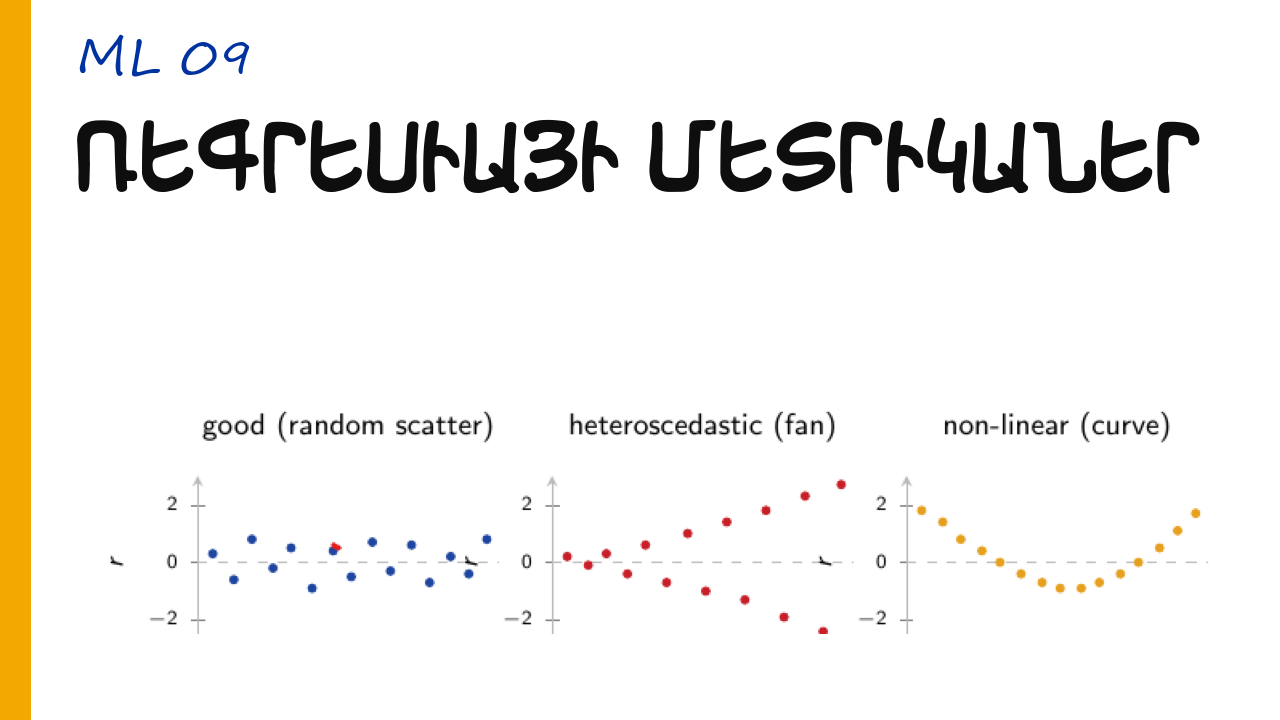
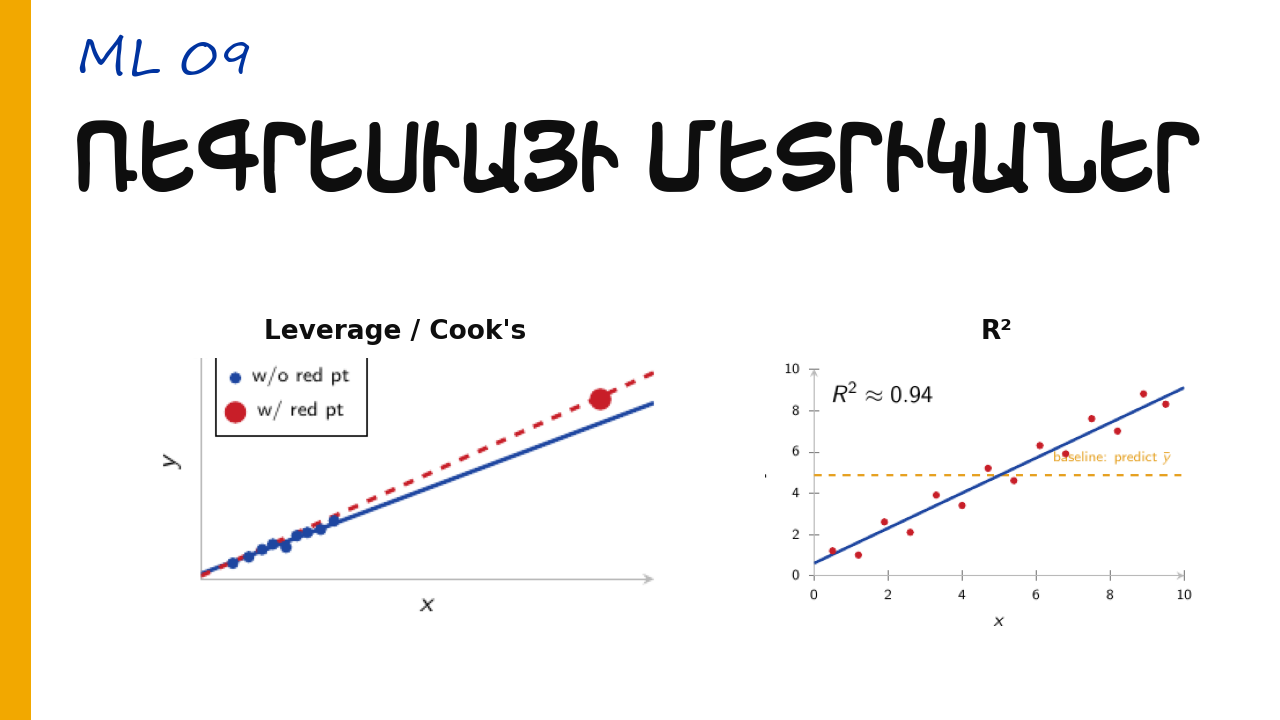
ML08 English title in Bubble Sans; ML09 = leverage + R2 (clean PDF)
- title_latin now uses Bubble Sans (fonter.am foundry, matches Adamathuz's
  bold/rounded look) instead of DejaVu Sans
- ML09: switch to leverage/Cook's + R2 (user pick), cropped from the CLEAN
  07_regression_metrics.pdf, not the annotated _notes.pdf (drops the red ink)
- docs: README notes the clean-vs-notes PDF gotcha + Bubble Sans

diff --git a/scripts/make_thumbnails_final.py b/scripts/make_thumbnails_final.py
@@ -80,6 +80,17 @@ font_manager.fontManager.addfont(str(ARM_FONT_PATH))
 ARM_PROPS = font_manager.FontProperties(fname=str(ARM_FONT_PATH))
 log.info(f"Loaded Armenian font: {ARM_PROPS.get_name()}")
 
+# Latin title font for English titles ("title_latin" lessons) — Bubble Sans,
+# same fonter.am foundry / bold-rounded look as Adamathuz. Falls back to a bold
+# sans if missing.
+LATIN_FONT_PATH = Path("fonts/bubble-sans/Bubble Sans 1.01.otf")
+if LATIN_FONT_PATH.exists():
+    font_manager.fontManager.addfont(str(LATIN_FONT_PATH))
+    LATIN_PROPS = font_manager.FontProperties(fname=str(LATIN_FONT_PATH))
+    log.info(f"Loaded Latin title font: {LATIN_PROPS.get_name()}")
+else:
+    LATIN_PROPS = font_manager.FontProperties(family="DejaVu Sans", weight="bold")
+
 
 def _strip(ax):
     ax.set_xticks([])
@@ -783,10 +794,11 @@ def draw_ml08_hp_tuning(fig, bbox):
 
 
 def draw_ml09_metrics(fig, bbox):
-    """ML 09: the residuals-vs-fitted diagnostics (good / heteroscedastic /
-    non-linear, blue/red/orange) as a wide 3-panel hero, cropped from slide 27
-    of 07_regression_metrics_notes.pdf."""
-    _draw_image_row(fig, bbox, ["ml09_residuals.png"], max_h=0.40)
+    """ML 09: leverage / Cook's-distance (an influential point pulling the fit)
+    + R^2 (variance explained vs the mean baseline), cropped from slides 29 and
+    11 of 07_regression_metrics_notes.pdf."""
+    _draw_image_row(fig, bbox, ["ml09_leverage.png", "ml09_r2.png"],
+                    captions=["Leverage / Cook's", "R²"])
 
 
 # ---------- lesson configs ----------
@@ -901,7 +913,7 @@ def render_thumbnail(lesson: dict) -> None:
     title = lesson["title"]
     tsize = lesson["title_size"]
     if lesson.get("title_latin"):
-        fontkw = {"fontfamily": "DejaVu Sans", "fontweight": "bold"}
+        fontkw = {"fontproperties": LATIN_PROPS}
     else:
         fontkw = {"fontproperties": ARM_PROPS, "fontweight": "bold"}
     if "\n" not in title:

diff --git a/thumbnails/README.md b/thumbnails/README.md
@@ -55,7 +55,8 @@ When a chart has 3+ categorical colors, use this flag trio (project rule).
   it has **no Latin glyphs**. So Armenian titles and the badge must be pure
   Armenian; Latin (`sklearn`, `EDA`, `log`) goes in the panels, never an Adamathuz
   title. For an **English title**, set `"title_latin": True` on the lesson — it
-  renders in **DejaVu Sans Bold** instead (e.g. ML08 "Hyperparameter Tuning").
+  renders in **Bubble Sans** (`fonts/bubble-sans/`, same fonter.am foundry as
+  Adamathuz — bold/rounded/uppercase) instead (e.g. ML08 "Hyperparameter Tuning").
 - **Segoe Script** (Windows system font) — the `ML NN` tag. Latin/handwritten.
 - **Sylfaen** (Windows system font) — mixed-case Armenian inside panels
   (panel titles, pipeline box labels). Use this whenever you need lowercase
@@ -99,7 +100,7 @@ When a chart has 3+ categorical colors, use this flag trio (project rule).
 | `ML06.png` | ML 06 | no | degree-6 poly overfit + k-fold CV grid (embedded slides) |
 | `ML07.png` | ML 07 | no | L1/L2 geometry + λ U-curve (embedded slides) |
 | `ML08.png` | ML 08 | no | Grid/Random/Optuna search patterns (embedded slide hero, English title) |
-| `ML09.png` | ML 09 | no | residual diagnostics: random/fan/curve (embedded slide hero) |
+| `ML09.png` | ML 09 | no | leverage/Cook's + R² (embedded slides, **clean** PDF not `_notes`) |
 
 ML06–09 embed real course-slide figures (cropped into `thumbnails/assets/`)
 rather than redrawing — pulled from the lecture decks in
@@ -107,7 +108,10 @@ rather than redrawing — pulled from the lecture decks in
 `fig/`, or `pdftoppm`-rendered + cropped slides for inline-TikZ plots). The
 generic `_draw_image_row()` places 1+ images, sizing panels by aspect so the row
 fills the band. Title sizing also supports a per-lesson `title_max` (raise the
-auto-grow cap, e.g. ML07=86) and `title_latin` (English title in DejaVu Sans Bold).
+auto-grow cap, e.g. ML07=86) and `title_latin` (English title in Bubble Sans).
+NOTE: when cropping metric plots (inline pgfplots, no figure files), crop from
+the **clean** compiled PDF (`07_regression_metrics.pdf`), NOT the annotated
+`_notes.pdf` — the latter has the lecturer's red ink baked in.
 
 ## Running
 
